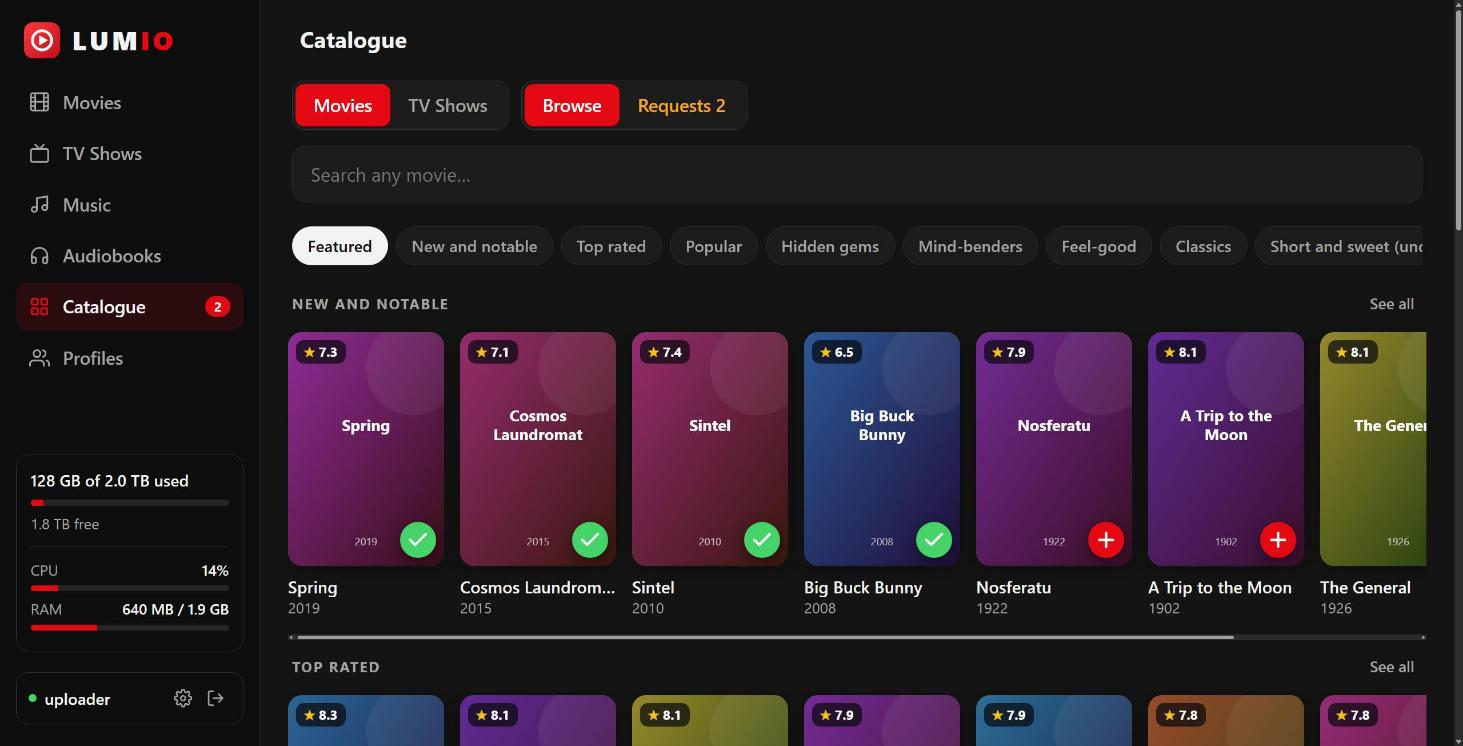
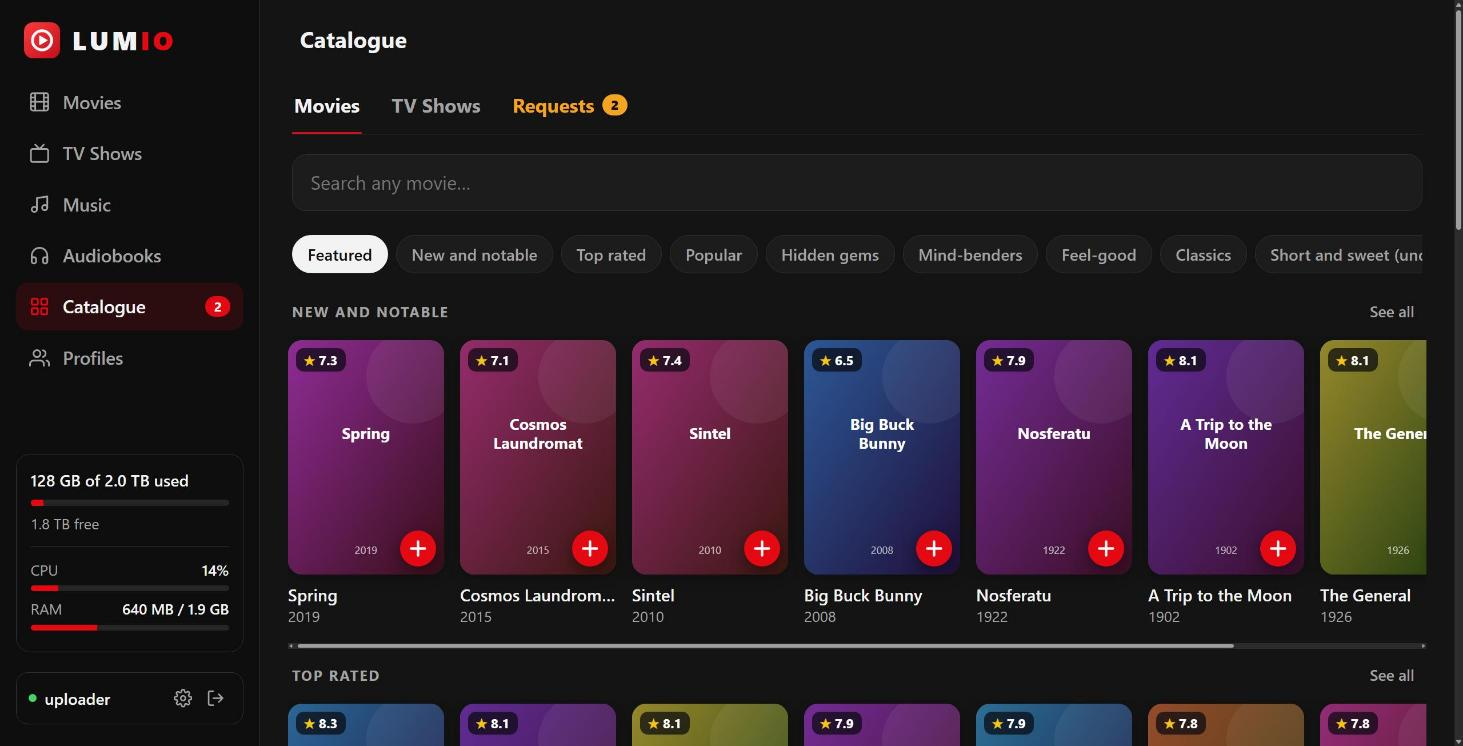
Catalogue: one row of three tabs (Movies, TV Shows, Requests) instead of two stacked switches

diff --git a/deploy/uploads/assets/index.html b/deploy/uploads/assets/index.html
@@ -312,6 +312,18 @@ body.guest .tabbar{display:none}
 .rb .rt{flex:1;min-width:220px}
 .rb .rt b{display:block}
 .rb .rt span{color:var(--muted);font-size:.9rem}
+
+/* catalogue tabs: Movies | TV Shows | Requests on one line */
+.tabs{display:flex;gap:28px;border-bottom:1px solid var(--line);margin:0 0 20px;overflow-x:auto;scrollbar-width:none}
+.tabs::-webkit-scrollbar{display:none}
+.tabs button{all:unset;cursor:pointer;display:inline-flex;align-items:center;gap:8px;padding:10px 2px 13px;font-size:1.08rem;font-weight:650;color:var(--muted);border-bottom:3px solid transparent;margin-bottom:-1px;white-space:nowrap}
+.tabs button:hover{color:var(--ink)}
+.tabs button.on{color:var(--ink);border-bottom-color:var(--accent)}
+.tabs button:focus-visible{outline:2px solid var(--accent);outline-offset:2px;border-radius:6px}
+.tabs button.amber{color:var(--amber)}
+.tabs button.amber.on{border-bottom-color:var(--amber)}
+.tabs .cnt{background:var(--amber);color:#1b1204;border-radius:99px;font-size:.74rem;font-weight:800;padding:1px 8px;min-width:1.4rem;text-align:center}
+@media (max-width:860px){.tabs{gap:22px;margin-bottom:16px}.tabs button{font-size:1rem}}
 </style>
 </head>
 <body>
@@ -636,6 +648,8 @@ async function api(method,path,body){
 async function loadRequests(){
   try{reqList=await api("GET","/_meta/requests");}catch(e){reqList=[];}
   openReq=reqList.filter(function(r){return r.status==="open";}).length;renderNav();
+  var rb=document.querySelector(".tabs button.amber");      // keep the count on the Requests tab current
+  if(rb){var cn=rb.querySelector(".cnt");if(openReq){if(!cn){cn=el("span","cnt");rb.appendChild(cn);}cn.textContent=String(openReq);}else if(cn)cn.remove();}
 }
 function rimg(u,w){return u?"/_meta/rimg?w="+(w||342)+"&u="+encodeURIComponent(u):null;}
 function isAsked(kind,n,y){return reqList.some(function(r){return r.status==="open"&&r.kind===kind&&r.title.toLowerCase()===n.toLowerCase()&&(r.year||0)===(y||0);});}
@@ -816,16 +830,17 @@ async function renderProfiles(){
 }
 function renderRequests(){
   var c=$("content");c.innerHTML="";$("hero").hidden=true;clearTimeout(catPoll);if(shelfObs){shelfObs.disconnect();shelfObs=null;}
-  var bar=el("div","reqbar");
-  var seg=el("div","seg");
-  [["movie","Movies"],["series","TV Shows"]].forEach(function(k){
-    var b=el("button",reqKind===k[0]?"on":"",k[1]);b.type="button";b.onclick=function(){reqKind=k[0];reqRow="";renderRequests();};seg.appendChild(b);
+  // one row of three plain tabs: what you browse (Movies / TV Shows) and the list of requests
+  var tabs=el("div","tabs");tabs.setAttribute("role","tablist");
+  [["movie","Movies",""],["series","TV Shows",""],["list","Requests","amber"]].forEach(function(k){
+    var on=k[0]==="list"?reqTab==="list":(reqTab==="browse"&&reqKind===k[0]);
+    var b=el("button",(on?"on ":"")+k[2]);b.type="button";b.setAttribute("role","tab");b.setAttribute("aria-selected",String(on));
+    b.appendChild(el("span","",k[1]));
+    if(k[0]==="list"&&openReq)b.appendChild(el("span","cnt",String(openReq)));
+    b.onclick=function(){if(k[0]==="list")reqTab="list";else{reqTab="browse";reqKind=k[0];reqRow="";}renderRequests();};
+    tabs.appendChild(b);
   });
-  var seg2=el("div","seg");
-  [["browse","Browse",""],["list","Requests"+(openReq?" "+openReq:""),"amber"]].forEach(function(k){
-    var b=el("button",(reqTab===k[0]?"on ":"")+k[2],k[1]);b.type="button";b.onclick=function(){reqTab=k[0];renderRequests();};seg2.appendChild(b);
-  });
-  bar.appendChild(seg);bar.appendChild(seg2);c.appendChild(bar);
+  c.appendChild(tabs);
   if(reqTab==="list"){var l=el("div");l.id="reqList";c.appendChild(l);drawRequests();loadRequests().then(drawRequests);return;}
   var inp=el("input","big-search");inp.type="search";inp.placeholder=reqKind==="series"?"Search any TV show…":"Search any movie…";inp.setAttribute("aria-label","Search");inp.autocomplete="off";
   c.appendChild(inp);
